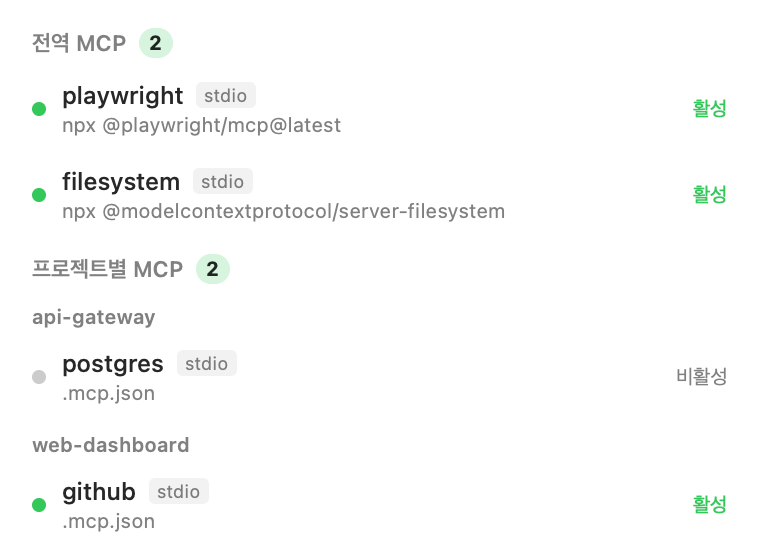
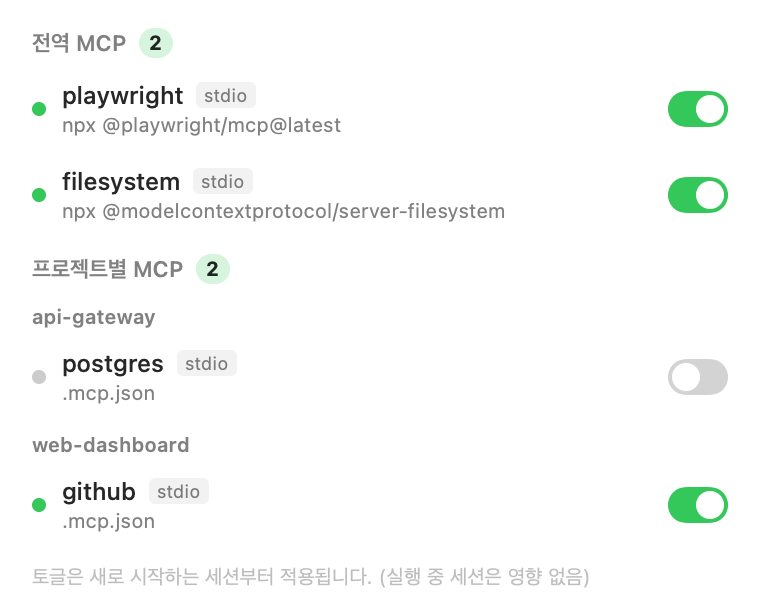
[UPDATE] MCP 스크린샷(스위치) 및 체인지로그

diff --git a/docs/change-log/2026-06-12.md b/docs/change-log/2026-06-12.md
@@ -151,6 +151,18 @@
 ### 변경 파일
 - `Features/SessionListView.swift`(hover 상태 + grayscale/opacity), `docs/images/sessions.png`
 
+## [ADD] MCP 서버 켜기/끄기 토글
+
+- 각 MCP 서버 행에 on/off 스위치 추가, `~/.claude.json`을 안전하게 수정.
+- **프로젝트 `.mcp.json` 서버**: Claude Code 고유 키 `enabledMcpjsonServers`/`disabledMcpjsonServers` 배열로 이동(네이티브 방식, Claude가 보존).
+- **전역 `mcpServers`**: disable 플래그가 없어, 끌 때 설정을 사이드카 파일(`~/.claude/claudebar-disabled-mcp.json`)에 보관 후 `mcpServers`에서 제거 → Claude가 stash를 지울 위험 없이 무손실 복원. (인라인 프로젝트 서버는 토글 불가 → "항상 켜짐")
+- 쓰기는 **원자적(.atomic) + 롤링 백업**(`~/.claude.json.claudebar-bak`).
+- UI: 네이티브 `Toggle`은 오프스크린 렌더가 깨져, 도형 기반 **커스텀 `MiniSwitch`**로 대체(앱·스크린샷 일관). "토글은 새 세션부터 적용" 안내 추가.
+- 검증: 전역(playwright)·프로젝트 토글 round-trip(off→on) 후 `~/.claude.json` 74개 키·`projects`·`mcpServers` 무결성 동일 확인(무손실).
+
+### 변경 파일
+- `Services/MCPService.swift`(신규), `Core/ConfigStore.swift`(사이드카·toggleable), `Core/Models.swift`(toggleable), `AppState.swift`(toggleMCP/reloadConfig), `Features/MCPView.swift`(MiniSwitch), `App.swift`(--mcp 디버그 훅)
+
 ## 이슈/논의
 - 공식 `/usage` rate-limit(5h·7day) 엔드포인트는 비공식이라 v2에서 Keychain OAuth 토큰으로 연동 시도 예정(현재 로컬 집계로 폴백).
 - MCP 전역 토글, 멀티 계정 전환은 v2(쓰기 인터랙션)로 분리.
